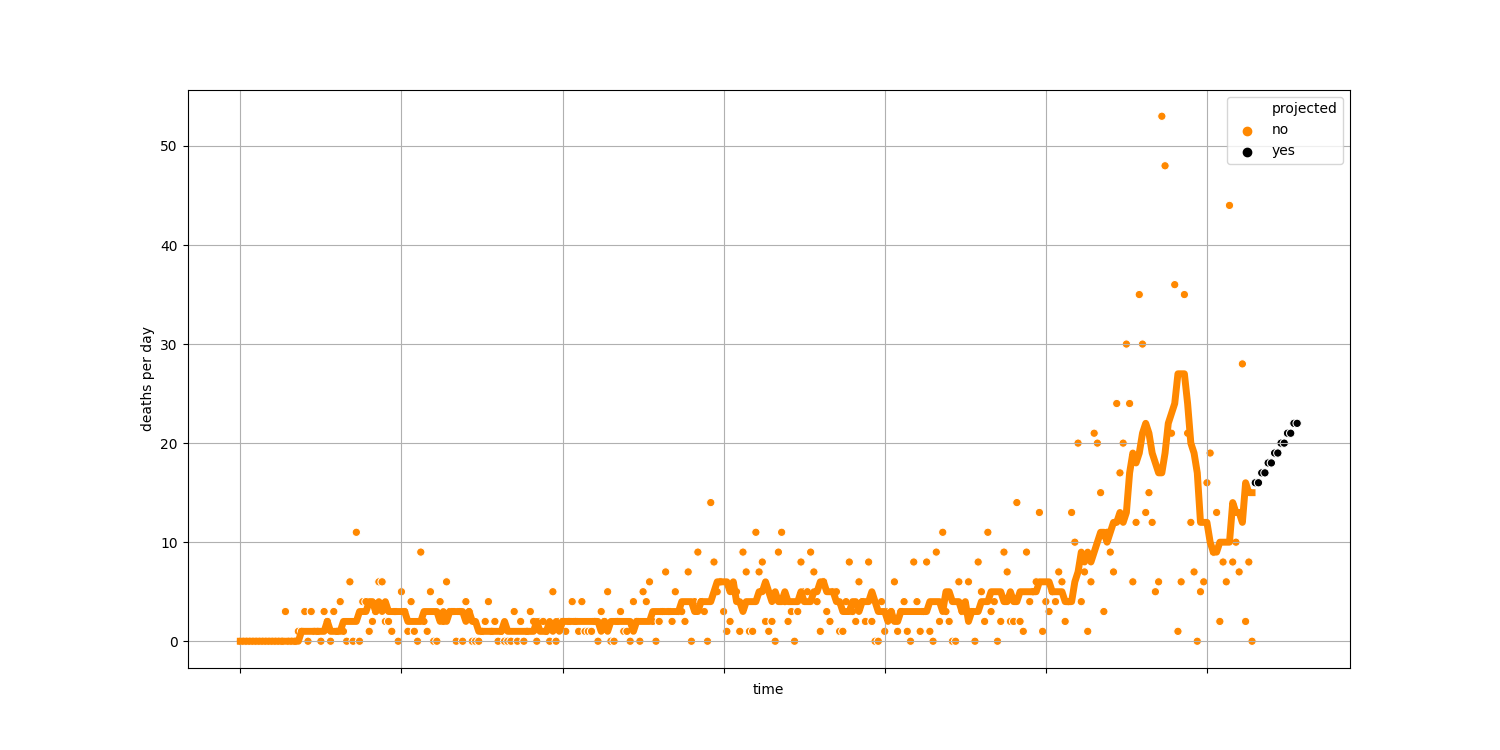
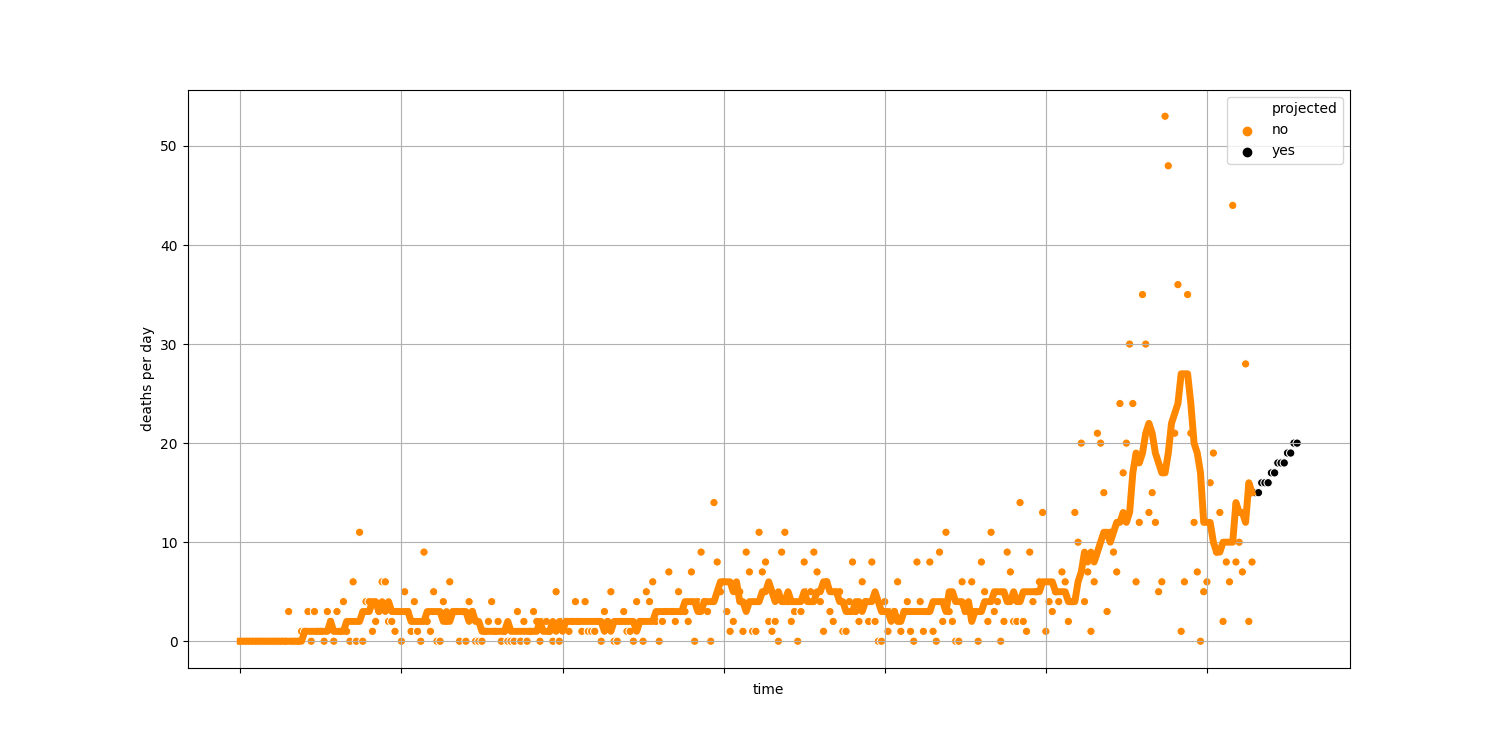
regular update

Changed region(s): [[0.184, 0.4907, 0.8893, 0.8587], [0.7667, 0.368, 0.7973, 0.3987]]

diff --git a/docs/table.html b/docs/table.html
@@ -100,7 +100,7 @@
     <script type="text/javascript">
       window.addEventListener('DOMContentLoaded', () => {
 
-        const data = [{'state': 'Alabama', 'deaths_per_million_per_day': '14', 'positive_per_million_per_day': '871'}, {'state': 'Alaska', 'deaths_per_million_per_day': '1', 'positive_per_million_per_day': '388'}, {'state': 'American Samoa', 'deaths_per_million_per_day': '0', 'positive_per_million_per_day': '0'}, {'state': 'Arizona', 'deaths_per_million_per_day': '21', 'positive_per_million_per_day': '1,295'}, {'state': 'Arkansas', 'deaths_per_million_per_day': '13', 'positive_per_million_per_day': '1,021'}, {'state': 'California', 'deaths_per_million_per_day': '12', 'positive_per_million_per_day': '1,048'}, {'state': 'Colorado', 'deaths_per_million_per_day': '7', 'positive_per_million_per_day': '481'}, {'state': 'Connecticut', 'deaths_per_million_per_day': '10', 'positive_per_million_per_day': '750'}, {'state': 'Delaware', 'deaths_per_million_per_day': '7', 'positive_per_million_per_day': '806'}, {'state': 'District of Columbia', 'deaths_per_million_per_day': '4', 'positive_per_million_per_day': '422'}, {'state': 'Florida', 'deaths_per_million_per_day': '7', 'positive_per_million_per_day': '730'}, {'state': 'Georgia', 'deaths_per_million_per_day': '7', 'positive_per_million_per_day': '694'}, {'state': 'Guam', 'deaths_per_million_per_day': '0', 'positive_per_million_per_day': '66'}, {'state': 'Hawaii', 'deaths_per_million_per_day': '2', 'positive_per_million_per_day': '153'}, {'state': 'Idaho', 'deaths_per_million_per_day': '7', 'positive_per_million_per_day': '571'}, {'state': 'Illinois', 'deaths_per_million_per_day': '11', 'positive_per_million_per_day': '548'}, {'state': 'Indiana', 'deaths_per_million_per_day': '11', 'positive_per_million_per_day': '799'}, {'state': 'Iowa', 'deaths_per_million_per_day': '7', 'positive_per_million_per_day': '381'}, {'state': 'Kansas', 'deaths_per_million_per_day': '18', 'positive_per_million_per_day': '794'}, {'state': 'Kentucky', 'deaths_per_million_per_day': '6', 'positive_per_million_per_day': '849'}, {'state': 'Louisiana', 'deaths_per_million_per_day': '10', 'positive_per_million_per_day': '801'}, {'state': 'Maine', 'deaths_per_million_per_day': '8', 'positive_per_million_per_day': '387'}, {'state': 'Maryland', 'deaths_per_million_per_day': '6', 'positive_per_million_per_day': '517'}, {'state': 'Massachusetts', 'deaths_per_million_per_day': '11', 'positive_per_million_per_day': '914'}, {'state': 'Michigan', 'deaths_per_million_per_day': '11', 'positive_per_million_per_day': '344'}, {'state': 'Minnesota', 'deaths_per_million_per_day': '7', 'positive_per_million_per_day': '351'}, {'state': 'Mississippi', 'deaths_per_million_per_day': '14', 'positive_per_million_per_day': '798'}, {'state': 'Missouri', 'deaths_per_million_per_day': '9', 'positive_per_million_per_day': '513'}, {'state': 'Montana', 'deaths_per_million_per_day': '11', 'positive_per_million_per_day': '533'}, {'state': 'Nebraska', 'deaths_per_million_per_day': '7', 'positive_per_million_per_day': '519'}, {'state': 'Nevada', 'deaths_per_million_per_day': '14', 'positive_per_million_per_day': '799'}, {'state': 'New Hampshire', 'deaths_per_million_per_day': '10', 'positive_per_million_per_day': '523'}, {'state': 'New Jersey', 'deaths_per_million_per_day': '11', 'positive_per_million_per_day': '724'}, {'state': 'New Mexico', 'deaths_per_million_per_day': '13', 'positive_per_million_per_day': '666'}, {'state': 'New York', 'deaths_per_million_per_day': '9', 'positive_per_million_per_day': '821'}, {'state': 'North Carolina', 'deaths_per_million_per_day': '9', 'positive_per_million_per_day': '804'}, {'state': 'North Dakota', 'deaths_per_million_per_day': '8', 'positive_per_million_per_day': '298'}, {'state': 'Northern Mariana Islands', 'deaths_per_million_per_day': '0', 'positive_per_million_per_day': '0'}, {'state': 'Ohio', 'deaths_per_million_per_day': '7', 'positive_per_million_per_day': '703'}, {'state': 'Oklahoma', 'deaths_per_million_per_day': '8', 'positive_per_million_per_day': '1,028'}, {'state': 'Oregon', 'deaths_per_million_per_day': '4', 'positive_per_million_per_day': '276'}, {'state': 'Pennsylvania', 'deaths_per_million_per_day': '17', 'positive_per_million_per_day': '681'}, {'state': 'Puerto Rico', 'deaths_per_million_per_day': '4', 'positive_per_million_per_day': '209'}, {'state': 'Rhode Island', 'deaths_per_million_per_day': '12', 'positive_per_million_per_day': '1,065'}, {'state': 'South Carolina', 'deaths_per_million_per_day': '10', 'positive_per_million_per_day': '893'}, {'state': 'South Dakota', 'deaths_per_million_per_day': '11', 'positive_per_million_per_day': '461'}, {'state': 'Tennessee', 'deaths_per_million_per_day': '15', 'positive_per_million_per_day': '944'}, {'state': 'Texas', 'deaths_per_million_per_day': '10', 'positive_per_million_per_day': '777'}, {'state': 'U.S. Virgin Islands', 'deaths_per_million_per_day': '0', 'positive_per_million_per_day': '133'}, {'state': 'Utah', 'deaths_per_million_per_day': '4', 'positive_per_million_per_day': '973'}, {'state': 'Vermont', 'deaths_per_million_per_day': '3', 'positive_per_million_per_day': '276'}, {'state': 'Virginia', 'deaths_per_million_per_day': '4', 'positive_per_million_per_day': '600'}, {'state': 'Washington', 'deaths_per_million_per_day': '4', 'positive_per_million_per_day': '304'}, {'state': 'West Virginia', 'deaths_per_million_per_day': '16', 'positive_per_million_per_day': '831'}, {'state': 'Wisconsin', 'deaths_per_million_per_day': '8', 'positive_per_million_per_day': '591'}, {'state': 'Wyoming', 'deaths_per_million_per_day': '12', 'positive_per_million_per_day': '530'}, {'state': 'United States', 'deaths_per_million_per_day': '10', 'positive_per_million_per_day': '737'}];
+        const data = [{'state': 'Alabama', 'deaths_per_million_per_day': '14', 'positive_per_million_per_day': '871'}, {'state': 'Alaska', 'deaths_per_million_per_day': '1', 'positive_per_million_per_day': '388'}, {'state': 'American Samoa', 'deaths_per_million_per_day': '0', 'positive_per_million_per_day': '0'}, {'state': 'Arizona', 'deaths_per_million_per_day': '21', 'positive_per_million_per_day': '1,295'}, {'state': 'Arkansas', 'deaths_per_million_per_day': '13', 'positive_per_million_per_day': '1,021'}, {'state': 'California', 'deaths_per_million_per_day': '12', 'positive_per_million_per_day': '1,048'}, {'state': 'Colorado', 'deaths_per_million_per_day': '7', 'positive_per_million_per_day': '481'}, {'state': 'Connecticut', 'deaths_per_million_per_day': '10', 'positive_per_million_per_day': '750'}, {'state': 'Delaware', 'deaths_per_million_per_day': '7', 'positive_per_million_per_day': '806'}, {'state': 'District of Columbia', 'deaths_per_million_per_day': '4', 'positive_per_million_per_day': '422'}, {'state': 'Florida', 'deaths_per_million_per_day': '7', 'positive_per_million_per_day': '730'}, {'state': 'Georgia', 'deaths_per_million_per_day': '7', 'positive_per_million_per_day': '694'}, {'state': 'Guam', 'deaths_per_million_per_day': '0', 'positive_per_million_per_day': '66'}, {'state': 'Hawaii', 'deaths_per_million_per_day': '2', 'positive_per_million_per_day': '153'}, {'state': 'Idaho', 'deaths_per_million_per_day': '7', 'positive_per_million_per_day': '571'}, {'state': 'Illinois', 'deaths_per_million_per_day': '11', 'positive_per_million_per_day': '548'}, {'state': 'Indiana', 'deaths_per_million_per_day': '11', 'positive_per_million_per_day': '799'}, {'state': 'Iowa', 'deaths_per_million_per_day': '7', 'positive_per_million_per_day': '381'}, {'state': 'Kansas', 'deaths_per_million_per_day': '18', 'positive_per_million_per_day': '794'}, {'state': 'Kentucky', 'deaths_per_million_per_day': '6', 'positive_per_million_per_day': '849'}, {'state': 'Louisiana', 'deaths_per_million_per_day': '10', 'positive_per_million_per_day': '801'}, {'state': 'Maine', 'deaths_per_million_per_day': '8', 'positive_per_million_per_day': '387'}, {'state': 'Maryland', 'deaths_per_million_per_day': '6', 'positive_per_million_per_day': '517'}, {'state': 'Massachusetts', 'deaths_per_million_per_day': '11', 'positive_per_million_per_day': '914'}, {'state': 'Michigan', 'deaths_per_million_per_day': '11', 'positive_per_million_per_day': '344'}, {'state': 'Minnesota', 'deaths_per_million_per_day': '7', 'positive_per_million_per_day': '351'}, {'state': 'Mississippi', 'deaths_per_million_per_day': '14', 'positive_per_million_per_day': '798'}, {'state': 'Missouri', 'deaths_per_million_per_day': '9', 'positive_per_million_per_day': '513'}, {'state': 'Montana', 'deaths_per_million_per_day': '11', 'positive_per_million_per_day': '533'}, {'state': 'Nebraska', 'deaths_per_million_per_day': '7', 'positive_per_million_per_day': '519'}, {'state': 'Nevada', 'deaths_per_million_per_day': '14', 'positive_per_million_per_day': '799'}, {'state': 'New Hampshire', 'deaths_per_million_per_day': '10', 'positive_per_million_per_day': '523'}, {'state': 'New Jersey', 'deaths_per_million_per_day': '11', 'positive_per_million_per_day': '724'}, {'state': 'New Mexico', 'deaths_per_million_per_day': '13', 'positive_per_million_per_day': '666'}, {'state': 'New York', 'deaths_per_million_per_day': '9', 'positive_per_million_per_day': '821'}, {'state': 'North Carolina', 'deaths_per_million_per_day': '9', 'positive_per_million_per_day': '804'}, {'state': 'North Dakota', 'deaths_per_million_per_day': '8', 'positive_per_million_per_day': '298'}, {'state': 'Northern Mariana Islands', 'deaths_per_million_per_day': '0', 'positive_per_million_per_day': '0'}, {'state': 'Ohio', 'deaths_per_million_per_day': '7', 'positive_per_million_per_day': '703'}, {'state': 'Oklahoma', 'deaths_per_million_per_day': '8', 'positive_per_million_per_day': '1,028'}, {'state': 'Oregon', 'deaths_per_million_per_day': '4', 'positive_per_million_per_day': '269'}, {'state': 'Pennsylvania', 'deaths_per_million_per_day': '17', 'positive_per_million_per_day': '681'}, {'state': 'Puerto Rico', 'deaths_per_million_per_day': '4', 'positive_per_million_per_day': '209'}, {'state': 'Rhode Island', 'deaths_per_million_per_day': '12', 'positive_per_million_per_day': '1,065'}, {'state': 'South Carolina', 'deaths_per_million_per_day': '10', 'positive_per_million_per_day': '893'}, {'state': 'South Dakota', 'deaths_per_million_per_day': '11', 'positive_per_million_per_day': '461'}, {'state': 'Tennessee', 'deaths_per_million_per_day': '15', 'positive_per_million_per_day': '944'}, {'state': 'Texas', 'deaths_per_million_per_day': '10', 'positive_per_million_per_day': '777'}, {'state': 'U.S. Virgin Islands', 'deaths_per_million_per_day': '0', 'positive_per_million_per_day': '133'}, {'state': 'Utah', 'deaths_per_million_per_day': '4', 'positive_per_million_per_day': '973'}, {'state': 'Vermont', 'deaths_per_million_per_day': '3', 'positive_per_million_per_day': '276'}, {'state': 'Virginia', 'deaths_per_million_per_day': '4', 'positive_per_million_per_day': '600'}, {'state': 'Washington', 'deaths_per_million_per_day': '4', 'positive_per_million_per_day': '304'}, {'state': 'West Virginia', 'deaths_per_million_per_day': '16', 'positive_per_million_per_day': '831'}, {'state': 'Wisconsin', 'deaths_per_million_per_day': '8', 'positive_per_million_per_day': '591'}, {'state': 'Wyoming', 'deaths_per_million_per_day': '12', 'positive_per_million_per_day': '530'}, {'state': 'United States', 'deaths_per_million_per_day': '10', 'positive_per_million_per_day': '737'}];
 
         const render = () => {
           const tbody = document.querySelector('tbody');

diff --git a/docs/OR.html b/docs/OR.html
@@ -86,12 +86,12 @@
           <p class="font-body-md">
             Today there were
              <strong>
-            0</strong> COVID-19
+            924</strong> COVID-19
             cases identified.
-            There are about <strong>1,165</strong> new
+            There are about <strong>1,134</strong> new
             cases identified every day (7-day average). At the current rate, the
             average number of new cases per day will be about
-            <strong>1,290</strong> in 7 days and
+            <strong>1,280</strong> in 7 days and
             about <strong>1,400</strong> in 14
             days. This chart shows the number of new cases each day since the
             first case was identified. The dots are the total number of new
@@ -104,13 +104,13 @@
           <p class="font-body-md">
             Today there were
              <strong>
-            0</strong> COVID-19
+            8</strong> COVID-19
             deaths.
             There are about <strong>15</strong> new
             deaths every day (7-day average). At the current rate, the average
             number of people dying each day will be about
-            <strong>19</strong> in 7 days and
-            about <strong>22</strong> in 14
+            <strong>17</strong> in 7 days and
+            about <strong>20</strong> in 14
             days. This chart shows the number of deaths each day since the first
             case was identified. The dots are the total number of deaths for
             each day and the line is the average of the previous seven days. The
